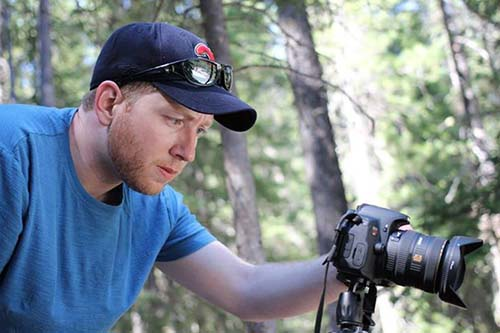
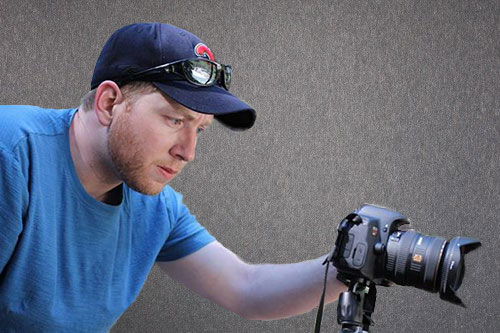
Last check-in with the card flip...
It was too annoying -- but saving for posterity

diff --git a/partials/whoami.html b/partials/whoami.html
@@ -1,33 +1,32 @@
+
+
     <!-- Navigation -->
-	<div id="sidebar-wrapper">
-        <ul class="sidebar-nav" bs-scrollspy>
-            <li data-target="#top" class="sidebar-brand" bs-scrollspy>
-                <a href="#/home">Dave Milford</a>
+    <a id="menu-toggle" ng-click="toggleMenu()" class="btn btn-dark btn-lg toggle"><i class="fa fa-bars"></i></a>
+    <nav id="sidebar-wrapper" ng-class="menuToggleState">
+        <ul class="sidebar-nav">
+            <a id="menu-close" ng-click="toggleMenu()" class="btn btn-light btn-lg pull-right toggle"><i class="fa fa-times"></i></a>
+            <li class="sidebar-brand">
+                <a href="#top">Start Bootstrap</a>
             </li>
-            <li data-target="#top" bs-scrollspy>
-                <a href="#/home">Home</a>
+            <li>
+                <a href="#top">Home</a>
             </li>
-            <li data-target="#about" bs-scrollspy>
-                <a href="#about">About</a>
-            </li>
-            <li data-target="#services" bs-scrollspy>
+            <li>
                 <a href="#services">Services</a>
             </li>
-            <li data-target="#portfolio" bs-scrollspy>
+            <li>
                 <a href="#portfolio">Portfolio</a>
             </li>
-            <li data-target="#contact" bs-scrollspy>
+            <li>
                 <a href="#contact">Contact</a>
             </li>
         </ul>
-    </div>
+    </nav>
+
     <!-- Header -->
-    <header id="top" class="header">
+    <header id="top" class="page-header callout">
         <div class="text-vertical-center">
-            <h1>Hello There</h1>
-            <h3>I'm Dave Milford</h3>
-            <br>
-            <a href="#about" class="btn btn-dark btn-lg">Find Out More</a>
+            <h1>What I Do</h1>
         </div>
     </header>
 
@@ -50,7 +49,7 @@
                                     <strong>C++</strong>
                                 </h4>
                                 <p>Lorem ipsum dolor sit amet, consectetur adipisicing elit.</p>
-                                <a href="#top" class="btn btn-light">Learn More</a>
+                                <a href="#" class="btn btn-light">Learn More</a>
                             </div>
                         </div>
                         <div class="col-md-3 col-sm-6">
@@ -63,7 +62,7 @@
                                     <strong>C#</strong>
                                 </h4>
                                 <p>Lorem ipsum dolor sit amet, consectetur adipisicing elit.</p>
-                                <a href="#top" class="btn btn-light">Learn More</a>
+                                <a href="#" class="btn btn-light">Learn More</a>
                             </div>
                         </div>
                         <div class="col-md-3 col-sm-6">
@@ -73,10 +72,10 @@
                                 <i class="fa fa-flask fa-stack-1x text-primary"></i>
                             </span>
                                 <h4>
-                                    <strong>HTML5</strong>
+                                    <strong>Objective-C</strong>
                                 </h4>
                                 <p>Lorem ipsum dolor sit amet, consectetur adipisicing elit.</p>
-                                <a href="#top" class="btn btn-light">Learn More</a>
+                                <a href="#" class="btn btn-light">Learn More</a>
                             </div>
                         </div>
                         <div class="col-md-3 col-sm-6">
@@ -86,10 +85,10 @@
                                 <i class="fa fa-shield fa-stack-1x text-primary"></i>
                             </span>
                                 <h4>
-                                    <strong>Obj-C</strong>
+                                    <strong>HTML5</strong>
                                 </h4>
                                 <p>Lorem ipsum dolor sit amet, consectetur adipisicing elit.</p>
-                                <a href="#top" class="btn btn-light">Learn More</a>
+                                <a href="#" class="btn btn-light">Learn More</a>
                             </div>
                         </div>
                     </div>
@@ -147,7 +146,7 @@
                         </div>
                     </div>
                     <!-- /.row (nested) -->
-                    <a href="#" class="btn btn-dark">View More Examples</a>
+                    <a href="#" class="btn btn-dark">View More Items</a>
                 </div>
                 <!-- /.col-lg-10 -->
             </div>
@@ -168,3 +167,38 @@
             </div>
         </div>
     </aside>
+
+
+    <!-- Map -->
+    <section id="contact">
+
+    <!-- Footer -->
+    <footer>
+        <div class="container">
+            <div class="row">
+                <div class="col-lg-10 col-lg-offset-1 text-center">
+                    <h4><strong>Dave Milford</strong>
+                    </h4>
+                    <br>
+                    <ul class="list-inline">
+                        <li>
+                            <a href="http://facebook.com/davemilford"><i class="fa fa-facebook fa-fw fa-3x"></i></a>
+                        </li>
+                        <li>
+                            <a href="#"><i class="fa fa-send fa-fw fa-3x"></i></a>
+                        </li>
+                        <li>
+                            <a href="http://ca.linkedin.com/in/davemilford"><i class="fa fa-linkedin fa-fw fa-3x"></i></a>
+                        </li>
+                        <li>
+                            <a href="https://www.flickr.com/photos/asherian/sets/"><i class="fa fa-flickr fa-fw fa-3x"></i></a>
+                        </li>
+                    </ul>
+                    <hr class="small">
+                    <p class="text-muted">Copyright &copy; Dave Milford 2015</p>
+                </div>
+            </div>
+        </div>
+    </footer>
+    </section>
+

diff --git a/js/controllers/whoami.js b/js/controllers/whoami.js
@@ -1,4 +1,32 @@
 define(['./module'], function(controllers) {
     'use strict';
-    controllers.controller('WhoAmICtrl', [function($scope) {}]);
+    controllers.controller('WhoAmICtrl', ['$scope', function($scope) {
+
+    $scope.menuToggleState = "inactive";
+    $scope.toggleMenu = function()
+    {
+    	if($scope.menuToggleState === "active")
+    		$scope.menuToggleState = "";
+    	else
+    		$scope.menuToggleState = "active";
+    };
+ 
+    // Scrolls to the selected menu item on the page
+    $(function() {
+        $('a[href*=#]:not([href=#])').click(function() {
+            if (location.pathname.replace(/^\//, '') == this.pathname.replace(/^\//, '') || location.hostname == this.hostname) {
+
+                var target = $(this.hash);
+                target = target.length ? target : $('[name=' + this.hash.slice(1) + ']');
+                if (target.length) {
+                    $('html,body').animate({
+                        scrollTop: target.offset().top
+                    }, 1000);
+                    return false;
+                }
+            }
+        });
+    });
+
+    }]);
 });

diff --git a/css/custom.css b/css/custom.css
@@ -65,15 +65,17 @@ hr.small {
 
 /* Side Menu */
 
+/* Side Menu */
+
 #sidebar-wrapper {
     z-index: 1000;
     position: fixed;
     right: 0;
-    width: 155px;
-    height: 275px;
-    overflow: hidden;
+    width: 250px;
+    height: 100%;
+    margin-right: -250px;
+    overflow-y: auto;
     background: #222;
-    opacity: 0.75;
     -webkit-transition: all 0.4s ease 0s;
     -moz-transition: all 0.4s ease 0s;
     -ms-transition: all 0.4s ease 0s;
@@ -88,7 +90,6 @@ hr.small {
     margin: 0;
     padding: 0;
     list-style: none;
-    z-index: 1000;
 }
 
 .sidebar-nav li {
@@ -240,7 +241,7 @@ hr.small {
     text-align: center;
     text-shadow: 0 2px 3px #555;
     font-family: 'Roboto Condensed', sans-serif;
-    font-size: 4em;
+    font-size: 50px;
     font-weight: 800;
     text-decoration: none;
     position: absolute;
@@ -275,8 +276,6 @@ hr.small {
 {
   text-decoration:none;
 }
-
-/* Footer */
 
 footer {
     padding: 100px 0;

diff --git a/js/main.js b/js/main.js
@@ -10,8 +10,8 @@ require.config({
         'angular-strap': '//cdnjs.cloudflare.com/ajax/libs/angular-strap/2.1.4/angular-strap',
         'angular-strap-tpl': '//cdnjs.cloudflare.com/ajax/libs/angular-strap/2.1.4/angular-strap.tpl',
         'domReady': 'lib/requirejs-domready/domReady',
-        'jquery': '//code.jquery.com/jquery-2.1.3.min'
-     //   'bootstrap-js': 'lib/bootstrap'
+        'jquery': '//code.jquery.com/jquery-2.1.3.min',
+        'bootstrap-js': 'lib/bootstrap'
     },
     /**
     * for libs that either do not support AMD out of the box, or
@@ -32,10 +32,10 @@ require.config({
         },
         'jquery': {
             exports: '$'
+        },
+        'bootstrap-js': {
+            deps: ['jquery']
         }
-      //  'bootstrap-js': {
-     //       deps: ['jquery']
-      //  }
     },
     deps: [
         // kick start application... see bootstrap.js

diff --git a/partials/homepage.html b/partials/homepage.html
@@ -38,7 +38,7 @@
                     <div class="portfolio-item flipper">
                     	<div class="front">
 		                    <a href="#/whoami#top">
-		                    	<img class="img-portfolio img-responsive" src="img/whoami2.png" alt="Who I Am">
+		                    	<img class="img-portfolio img-responsive" src="img/whoami2.jpg" alt="Who I Am">
 		                        <div class="homepage-iam-text whoiam-text">
 		                        	WHO<br/>I AM
 		                    	</div>

diff --git a/partials/whatdoido.html b/partials/whatdoido.html
@@ -23,12 +23,9 @@
     </div>
 
     <!-- Header -->
-    <header id="top" class="header">
+    <header id="top" class="page-header callout">
         <div class="text-vertical-center">
-            <h1>Hello There</h1>
-            <h3>I'm Dave Milford</h3>
-            <br>
-            <a href="#about" class="btn btn-dark btn-lg">Find Out More</a>
+            <h1>What I Do</h1>
         </div>
     </header>
     <!-- Services -->

diff --git a/js/bootstrap.js b/js/bootstrap.js
@@ -13,7 +13,7 @@ define([
     * place operations that need to initialize prior to app start here
     * using the `run` function on the top-level module
     */
-    require(['domReady!', 'jquery'], function(document) {
+    require(['domReady!', 'jquery', 'bootstrap-js'], function(document) {
         ng.bootstrap(document, ['app']);
     });
 });
